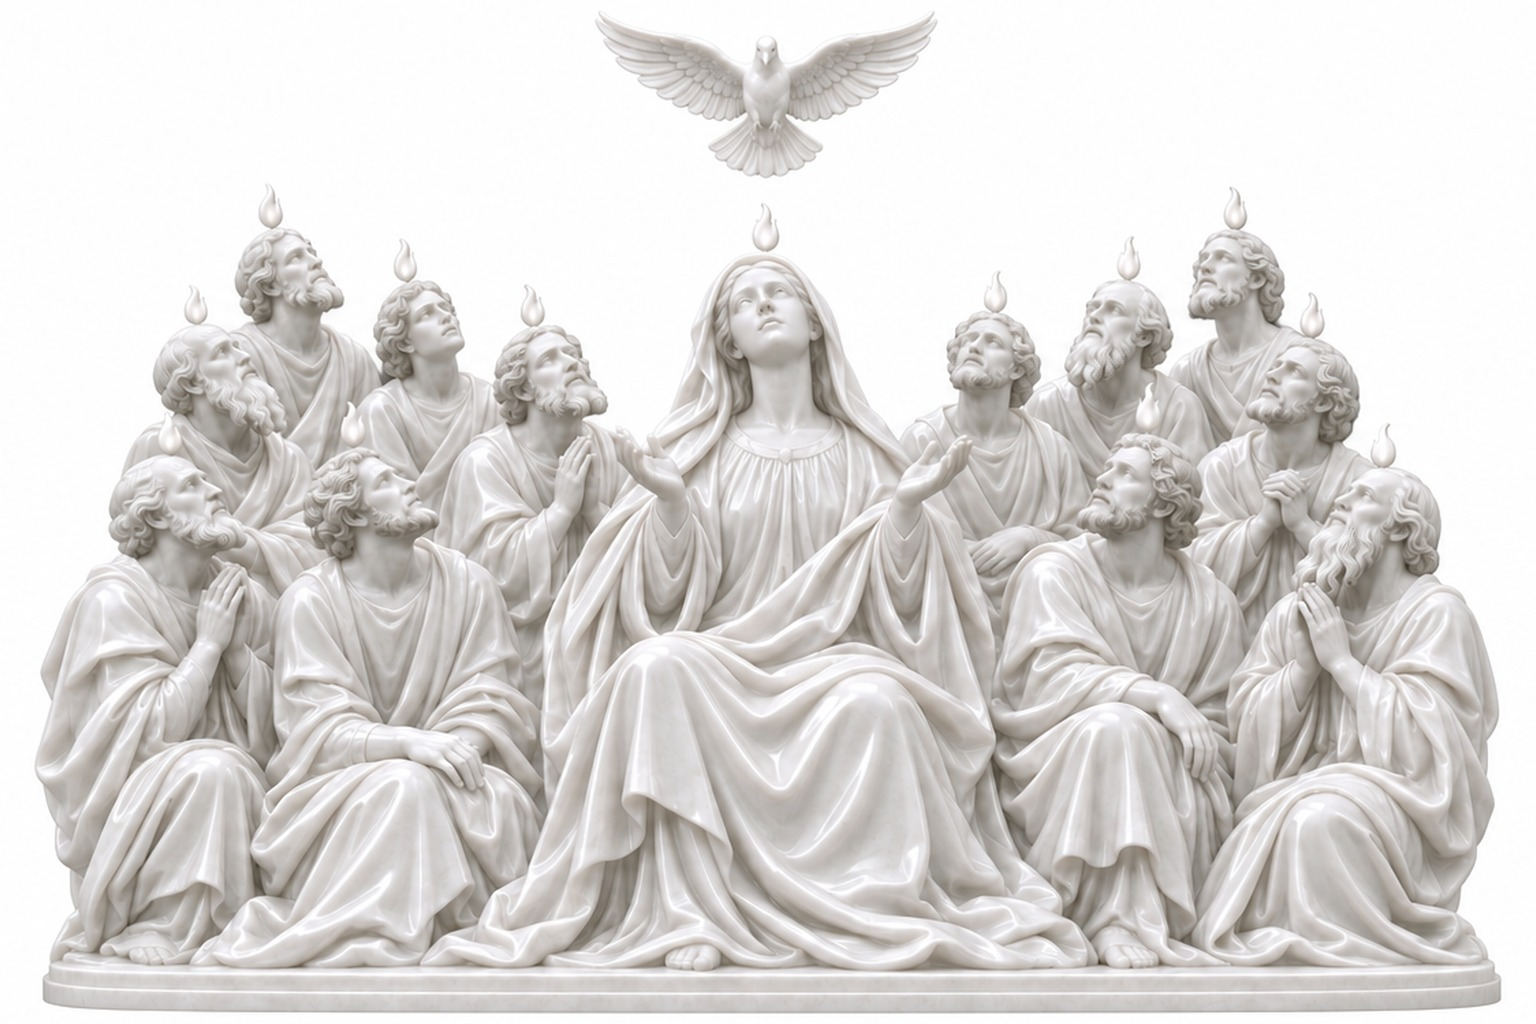
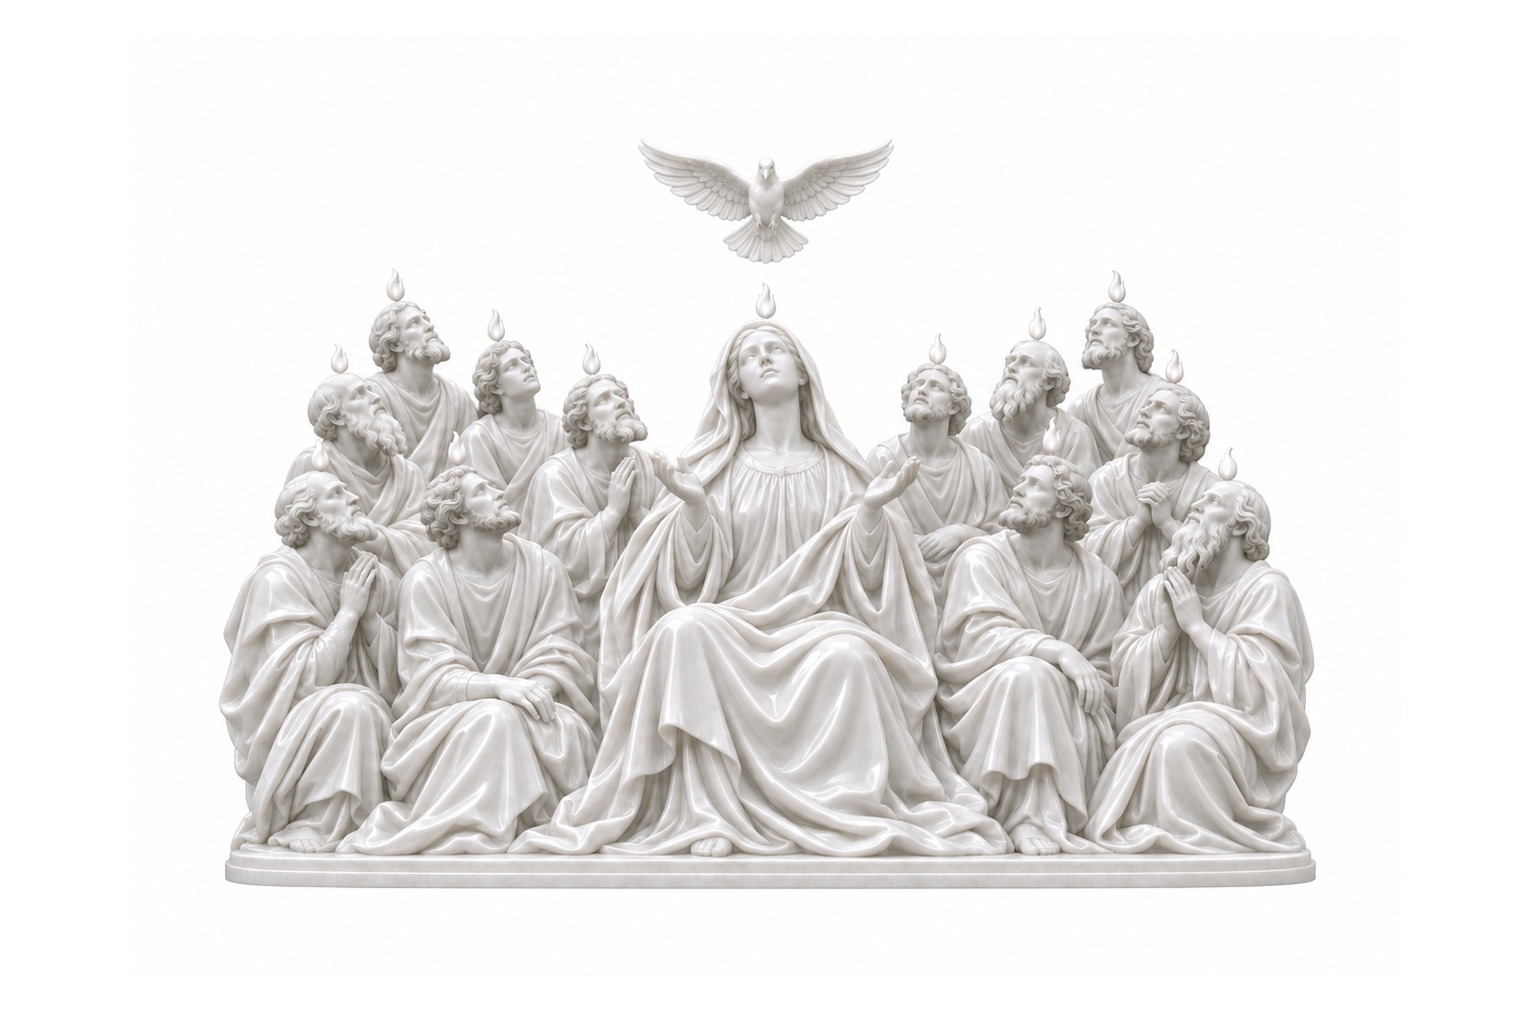
Keep mystery faces in frame and give feast cards top air.
Replace the Ascension, Pentecost, Coronation, and Eucharist plates with re-exports that include the full sculpture and a margin above the head or dove. Feast covers now start the figure a tenth of the frame below the top edge, still filling the width and cropping the lower body first. The rosary-flow black bar is unchanged.

diff --git a/RosaryGuide/Theme/ArtCatalog.swift b/RosaryGuide/Theme/ArtCatalog.swift
@@ -183,9 +183,22 @@ enum ArtCatalog {
         return subject
     }
 
-    /// Cover `frame` with `subject` at one scale (no stretch). The top of the figure
-    /// stays at the top of the frame, and `focusX` — the upper band, where the face is —
-    /// stays inside the window when the frame is narrower than the figure.
+    /// Share of the feast frame left as field above the figure.
+    /// Home cards and detail heroes both read this. About a tenth of the height:
+    /// enough air that a crown or face is not glued to the top edge, and still
+    /// inside the 8–12% band. Lower body is what gets cropped.
+    static let feastCoverTopInsetFraction: CGFloat = 0.10
+
+    /// Cover `frame` with `subject` at one scale (no stretch). The figure begins
+    /// `feastCoverTopInsetFraction` of the frame below the top edge. Width always
+    /// covers, so the card does not grow side bars. When the frame is short, the
+    /// extra scale crops the lower body and leaves the face, crown, and dove.
+    /// `focusX` — the upper band, where the face is — stays inside the window
+    /// when the frame is narrower than the figure.
+    ///
+    /// The returned Y offset may place the image below the frame's top. That gap
+    /// is the field above a figure that already touches the file's top edge;
+    /// the view paints it with the image's own field colour.
     static func feastCover(imageSize: CGSize, frame: CGSize, subject: CGRect, focusX: CGFloat) -> FeastCover {
         guard imageSize.width > 1, imageSize.height > 1, frame.width > 1, frame.height > 1 else {
             return FeastCover(scale: 1, offset: .zero)
@@ -193,22 +206,34 @@ enum ArtCatalog {
         let canvas = CGRect(origin: .zero, size: imageSize)
         let box = subject.intersection(canvas)
         let region = (box.width > 1 && box.height > 1) ? box : canvas
-        let scale = max(frame.width / region.width, frame.height / region.height)
+        let inset = frame.height * feastCoverTopInsetFraction
+        let bodyHeight = max(frame.height - inset, 1)
+        // Cover the card's width, and cover everything below the air with the figure.
+        let scale = max(frame.width / region.width, bodyHeight / region.height)
         let scaledW = imageSize.width * scale
         let scaledH = imageSize.height * scale
         let anchor = min(max(focusX, region.minX), region.maxX)
         var visX = anchor * scale - frame.width / 2
-        var visY = region.minY * scale
+        // Subject top lands on the inset. Negative means the file has no pixels
+        // above the figure, so the frame starts in the field above the image.
+        var visY = region.minY * scale - inset
         let subjectMinX = region.minX * scale
         let subjectMaxX = max(subjectMinX, region.maxX * scale - frame.width)
         visX = min(max(visX, subjectMinX), subjectMaxX)
         visX = min(max(visX, 0), max(0, scaledW - frame.width))
-        visY = min(max(visY, 0), max(0, scaledH - frame.height))
+        // Never uncover the bottom. Pulling up can shrink the air, but the scale
+        // above keeps the figure tall enough to reach the bottom from the inset.
+        let maxVisY = scaledH - frame.height
+        if visY > maxVisY { visY = maxVisY }
+        // Never crop the top of the figure to manufacture the air.
+        let subjectTop = region.minY * scale
+        if visY > subjectTop { visY = subjectTop }
         return FeastCover(scale: scale, offset: CGSize(width: -visX, height: -visY))
     }
 }
 
 private var feastSubjectKey: UInt8 = 0
+private var feastFieldKey: UInt8 = 0
 
 private final class FeastSubjectBox: NSObject {
     let subject: ArtCatalog.FeastSubject
@@ -216,6 +241,17 @@ private final class FeastSubjectBox: NSObject {
 }
 
 private extension ArtCatalog {
+    /// Flat field behind a feast statue, sampled from the corners.
+    /// Used to paint the air above a figure that already touches the top of the file.
+    static func feastFieldColor(of image: UIImage) -> UIColor {
+        if let cached = objc_getAssociatedObject(image, &feastFieldKey) as? UIColor {
+            return cached
+        }
+        let color = sampleFieldColor(image) ?? UIColor(white: 1, alpha: 1)
+        objc_setAssociatedObject(image, &feastFieldKey, color, .OBJC_ASSOCIATION_RETAIN)
+        return color
+    }
+
     /// Sampled luminance, row 0 at the top of the image.
     static func detectFeastSubject(_ image: UIImage) -> FeastSubject? {
         let sampleW = 320
@@ -305,6 +341,73 @@ private extension ArtCatalog {
         return FeastSubject(bounds: bounds, focusX: focusX)
     }
 
+    /// Median corner colour. Marble files leave the field in the corners even when
+    /// a head or dove touches the top centre, so the air band matches the file.
+    static func sampleFieldColor(_ image: UIImage) -> UIColor? {
+        let width = 64
+        let height = 36
+        let format = UIGraphicsImageRendererFormat()
+        format.scale = 1
+        format.opaque = true
+        let rendered = UIGraphicsImageRenderer(size: CGSize(width: width, height: height), format: format).image { _ in
+            image.draw(in: CGRect(x: 0, y: 0, width: width, height: height))
+        }
+        guard let cg = rendered.cgImage,
+              let data = cg.dataProvider?.data,
+              let bytes = CFDataGetBytePtr(data) else { return nil }
+        let bytesPerRow = cg.bytesPerRow
+        let bytesPerPixel = max(cg.bitsPerPixel / 8, 1)
+        let alpha = cg.alphaInfo
+        let order = cg.bitmapInfo.rawValue & CGBitmapInfo.byteOrderMask.rawValue
+        let little = order == CGBitmapInfo.byteOrder32Little.rawValue || order == 0
+        let alphaFirst = alpha == .premultipliedFirst || alpha == .first || alpha == .noneSkipFirst
+        var reds: [UInt8] = []
+        var greens: [UInt8] = []
+        var blues: [UInt8] = []
+        let corner = 8
+        func store(_ x: Int, _ y: Int) {
+            guard x >= 0, y >= 0, x < cg.width, y < cg.height else { return }
+            let origin = y * bytesPerRow + x * bytesPerPixel
+            let r: UInt8
+            let g: UInt8
+            let b: UInt8
+            if bytesPerPixel >= 4 && alphaFirst && little {
+                b = bytes[origin]
+                g = bytes[origin + 1]
+                r = bytes[origin + 2]
+            } else if bytesPerPixel >= 4 && alphaFirst {
+                r = bytes[origin + 1]
+                g = bytes[origin + 2]
+                b = bytes[origin + 3]
+            } else if bytesPerPixel >= 3 {
+                r = bytes[origin]
+                g = bytes[origin + 1]
+                b = bytes[origin + 2]
+            } else {
+                r = bytes[origin]
+                g = r
+                b = r
+            }
+            reds.append(r)
+            greens.append(g)
+            blues.append(b)
+        }
+        for y in 0..<corner {
+            for x in 0..<corner {
+                store(x, y)
+                store(cg.width - 1 - x, y)
+                store(x, cg.height - 1 - y)
+                store(cg.width - 1 - x, cg.height - 1 - y)
+            }
+        }
+        guard !reds.isEmpty else { return nil }
+        func median(_ values: [UInt8]) -> CGFloat {
+            let sorted = values.sorted()
+            return CGFloat(sorted[sorted.count / 2]) / 255
+        }
+        return UIColor(red: median(reds), green: median(greens), blue: median(blues), alpha: 1)
+    }
+
     /// Grayscale sample, row 0 at the top (UIKit coordinates).
     static func grayscale(_ image: UIImage, width: Int, height: Int) -> [UInt8]? {
         let format = UIGraphicsImageRendererFormat()
@@ -373,7 +476,8 @@ struct FocusedRasterImage: View {
     /// When set, the top of the visible crop is this far down the image (0...1).
     var cropTop: CGFloat? = nil
     /// Feast heroes. Scales the figure (not the letterboxed canvas) to fill the frame,
-    /// pinned to the top so faces stay in view. One scale; the frame clips the rest.
+    /// leaving a band of the statue's own field above it so faces are not flush
+    /// with the card edge. One scale; the frame clips the lower body.
     var coversSubject: Bool = false
 
     var body: some View {
@@ -409,6 +513,9 @@ struct FocusedRasterImage: View {
         // Round up so a fractional scale cannot leave a hairline of the card along the edge.
         let width = max((image.size.width * cover.scale).rounded(.up), 1)
         let height = max((image.size.height * cover.scale).rounded(.up), 1)
+        // Field colour shows only where the figure already touched the top of the
+        // file and the inset sits above those pixels. Sides stay covered by the image.
+        let field = Color(uiColor: ArtCatalog.feastFieldColor(of: image))
         return Image(uiImage: image)
             .resizable()
             .interpolation(.high)
@@ -416,6 +523,7 @@ struct FocusedRasterImage: View {
             .fixedSize()
             .offset(x: cover.offset.width, y: cover.offset.height)
             .frame(width: frame.width, height: frame.height, alignment: .topLeading)
+            .background(field)
             .clipped()
     }
 }

diff --git a/RosaryGuideTests/ThemeTokenTests.swift b/RosaryGuideTests/ThemeTokenTests.swift
@@ -450,56 +450,91 @@ final class CompletionScreenTests: XCTestCase {
 }
 
 final class FeastHeroFramingTests: XCTestCase {
-    func testPortraitFigureFillsTheCardAndKeepsTheTop() {
+    func testTopAirIsAboutATenthOfTheFrame() {
+        let fraction = ArtCatalog.feastCoverTopInsetFraction
+        XCTAssertGreaterThanOrEqual(fraction, 0.08)
+        XCTAssertLessThanOrEqual(fraction, 0.12)
+    }
+
+    func testPortraitFigureFillsTheCardAndLeavesTopAir() {
+        let frame = CGSize(width: 358, height: 176)
+        let subject = CGRect(x: 480, y: 0, width: 300, height: 720)
         let cover = ArtCatalog.feastCover(
             imageSize: CGSize(width: 1280, height: 720),
-            frame: CGSize(width: 358, height: 176),
-            subject: CGRect(x: 480, y: 0, width: 300, height: 720),
+            frame: frame,
+            subject: subject,
             focusX: 630
         )
         XCTAssertEqual(cover.scale, 358.0 / 300.0, accuracy: 0.0001)
         let visibleX = -cover.offset.width / cover.scale
         let visibleY = -cover.offset.height / cover.scale
         XCTAssertEqual(visibleX, 480, accuracy: 0.5)
-        XCTAssertEqual(visibleY, 0, accuracy: 0.5)
-        XCTAssertEqual(358 / cover.scale, 300, accuracy: 0.5)
+        // Width matches the figure: no side letterboxing.
+        XCTAssertEqual(frame.width / cover.scale, subject.width, accuracy: 0.5)
+        assertTopAir(visibleY: visibleY, subjectMinY: subject.minY, scale: cover.scale, frameHeight: frame.height)
+        // The head stays in frame; the lower body is what the card cuts.
+        XCTAssertLessThanOrEqual(visibleY, subject.minY + 0.5)
+        let visibleBottom = visibleY + frame.height / cover.scale
+        XCTAssertLessThan(visibleBottom, subject.maxY)
+        XCTAssertGreaterThan(visibleBottom, subject.minY)
     }
 
     func testTallFrameKeepsAFaceOnTheLeftInsideTheWindow() {
         let focus: CGFloat = 314
+        let frame = CGSize(width: 393, height: 330)
+        let subject = CGRect(x: 12, y: 144, width: 1256, height: 540)
         let cover = ArtCatalog.feastCover(
             imageSize: CGSize(width: 1280, height: 720),
-            frame: CGSize(width: 393, height: 330),
-            subject: CGRect(x: 12, y: 144, width: 1256, height: 540),
+            frame: frame,
+            subject: subject,
             focusX: focus
         )
         let visibleX = -cover.offset.width / cover.scale
         let visibleY = -cover.offset.height / cover.scale
-        let visibleWidth = 393 / cover.scale
-        let visibleHeight = 330 / cover.scale
-        XCTAssertEqual(visibleY, 144, accuracy: 1)
+        let visibleWidth = frame.width / cover.scale
+        let visibleHeight = frame.height / cover.scale
+        assertTopAir(visibleY: visibleY, subjectMinY: subject.minY, scale: cover.scale, frameHeight: frame.height)
+        XCTAssertLessThanOrEqual(visibleY, subject.minY + 0.5)
         XCTAssertGreaterThanOrEqual(focus, visibleX - 0.5)
         XCTAssertLessThanOrEqual(focus, visibleX + visibleWidth + 0.5)
         XCTAssertGreaterThanOrEqual(visibleX, -0.5)
         XCTAssertLessThanOrEqual(visibleX + visibleWidth, 1280.5)
         XCTAssertLessThanOrEqual(visibleY + visibleHeight, 720.5)
         XCTAssertLessThan(visibleWidth, 1200)
+        // The figure still covers the card's width.
+        XCTAssertGreaterThanOrEqual(subject.width * cover.scale, frame.width - 0.5)
     }
 
     func testWideCardCropsTheBottomOfAFullBleedHero() {
+        let frame = CGSize(width: 358, height: 176)
+        let subject = CGRect(x: 0, y: 0, width: 1280, height: 720)
         let cover = ArtCatalog.feastCover(
             imageSize: CGSize(width: 1280, height: 720),
-            frame: CGSize(width: 358, height: 176),
-            subject: CGRect(x: 0, y: 0, width: 1280, height: 720),
+            frame: frame,
+            subject: subject,
             focusX: 640
         )
         XCTAssertEqual(cover.scale, 358.0 / 1280.0, accuracy: 0.0001)
         let visibleX = -cover.offset.width / cover.scale
         let visibleY = -cover.offset.height / cover.scale
-        let visibleHeight = 176 / cover.scale
+        let visibleHeight = frame.height / cover.scale
         XCTAssertEqual(visibleX, 0, accuracy: 0.5)
-        XCTAssertEqual(visibleY, 0, accuracy: 0.5)
+        assertTopAir(visibleY: visibleY, subjectMinY: subject.minY, scale: cover.scale, frameHeight: frame.height)
         XCTAssertLessThan(visibleHeight, 700)
+        // Full width of the file, so the card has no side bars.
+        XCTAssertEqual(frame.width / cover.scale, subject.width, accuracy: 0.5)
+        let visibleBottom = visibleY + visibleHeight
+        XCTAssertGreaterThan(visibleBottom, 0)
+        XCTAssertLessThan(visibleBottom, subject.height)
+    }
+
+    /// The figure's top sits about a tenth of the frame below the frame's top.
+    private func assertTopAir(visibleY: CGFloat, subjectMinY: CGFloat, scale: CGFloat, frameHeight: CGFloat, file: StaticString = #filePath, line: UInt = #line) {
+        let subjectTop = (subjectMinY - visibleY) * scale
+        let inset = frameHeight * ArtCatalog.feastCoverTopInsetFraction
+        XCTAssertEqual(subjectTop, inset, accuracy: 0.75, file: file, line: line)
+        XCTAssertGreaterThanOrEqual(subjectTop, frameHeight * 0.08 - 0.5, file: file, line: line)
+        XCTAssertLessThanOrEqual(subjectTop, frameHeight * 0.12 + 0.5, file: file, line: line)
     }
 
     func testDetectorFindsAMarkAtTheTopNotTheBottom() {
